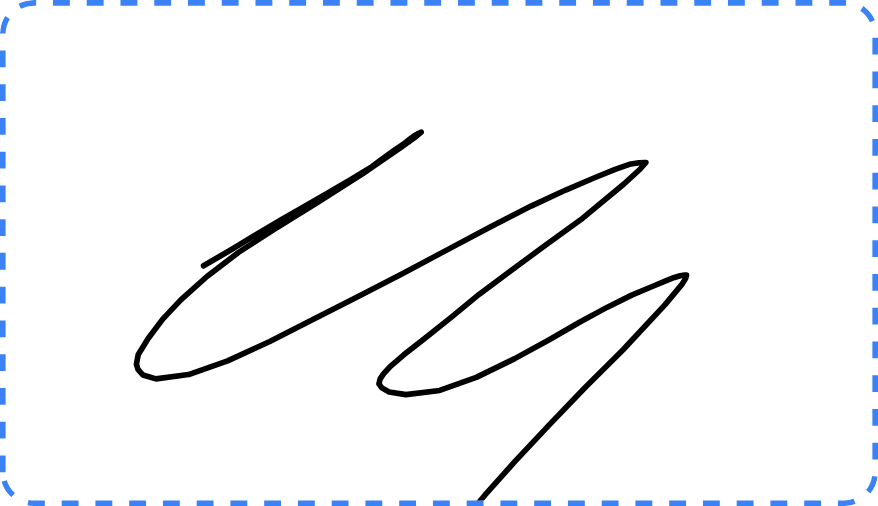
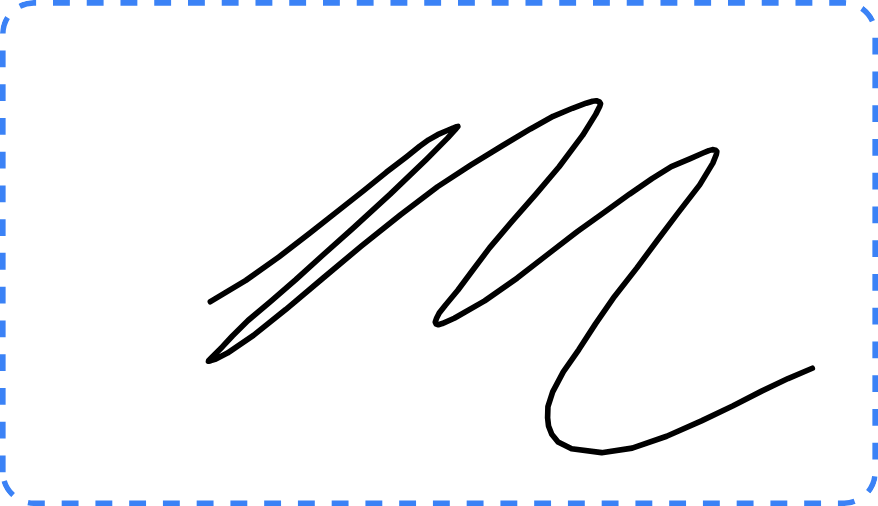
Add duplicate ID checks to work order creation and updates
Implement unique partial indexes on system and module IDs in project schemas and add duplicate ID checking logic within the `ProjectWorkOrderStorage` class to prevent the creation of work orders with conflicting identifiers.

Replit-Commit-Author: Agent
Replit-Commit-Session-Id: e9470737-603c-4a19-8335-7b03eaffff40
Replit-Commit-Checkpoint-Type: full_checkpoint
Replit-Commit-Event-Id: 947818ea-e8b2-4fb0-a9c3-bf7e7627d5a0
Replit-Commit-Screenshot-Url: https://storage.googleapis.com/screenshot-production-us-central1/9dfbb73b-9f94-4b2e-a0c6-1bd774946c5c/e9470737-603c-4a19-8335-7b03eaffff40/86VnuEs
Replit-Helium-Checkpoint-Created: true

diff --git a/server/projectDb.ts b/server/projectDb.ts
@@ -141,7 +141,30 @@ export async function createProjectSchema(projectName: string, projectId: number
       )
     `);
     
-    console.log(`Created project schema: ${schemaName}`);
+    // Add unique partial indexes for system and module IDs (only for non-null values)
+    // These ensure no duplicate meters/modules are created within a project
+    await client.query(`
+      CREATE UNIQUE INDEX IF NOT EXISTS idx_unique_old_system_id 
+      ON "${schemaName}".work_orders (old_system_id) 
+      WHERE old_system_id IS NOT NULL
+    `);
+    await client.query(`
+      CREATE UNIQUE INDEX IF NOT EXISTS idx_unique_new_system_id 
+      ON "${schemaName}".work_orders (new_system_id) 
+      WHERE new_system_id IS NOT NULL
+    `);
+    await client.query(`
+      CREATE UNIQUE INDEX IF NOT EXISTS idx_unique_old_module_id 
+      ON "${schemaName}".work_orders (old_module_id) 
+      WHERE old_module_id IS NOT NULL
+    `);
+    await client.query(`
+      CREATE UNIQUE INDEX IF NOT EXISTS idx_unique_new_module_id 
+      ON "${schemaName}".work_orders (new_module_id) 
+      WHERE new_module_id IS NOT NULL
+    `);
+    
+    console.log(`Created project schema with unique ID indexes: ${schemaName}`);
     return schemaName;
   } finally {
     client.release();
@@ -369,6 +392,25 @@ export async function migrateProjectSchema(schemaName: string): Promise<void> {
       }
     }
     
+    // Step 8: Add unique partial indexes for new_system_id and new_module_id
+    // These columns should have no duplicates (can't install same new meter twice)
+    // Note: old_* indexes skipped for existing schemas - may have legacy duplicates
+    try {
+      await client.query(`
+        CREATE UNIQUE INDEX IF NOT EXISTS idx_unique_new_system_id 
+        ON "${schemaName}".work_orders (new_system_id) 
+        WHERE new_system_id IS NOT NULL
+      `);
+      await client.query(`
+        CREATE UNIQUE INDEX IF NOT EXISTS idx_unique_new_module_id 
+        ON "${schemaName}".work_orders (new_module_id) 
+        WHERE new_module_id IS NOT NULL
+      `);
+      console.log(`Added unique indexes for new_system_id and new_module_id to ${schemaName}`);
+    } catch (indexError) {
+      console.log(`Unique index creation for ${schemaName}: ${indexError}`);
+    }
+    
     console.log(`Migration completed for ${schemaName}.work_orders to canonical Aurora schema`);
   } catch (error) {
     // Log but don't fail - table might not exist yet
@@ -524,6 +566,12 @@ export class ProjectWorkOrderStorage {
     await this.ensureMigrated();
     const client = await pool.connect();
     try {
+      // Check for duplicate system/module IDs before inserting
+      const duplicateErrors = await this.checkDuplicateIds(client, workOrder);
+      if (duplicateErrors.length > 0) {
+        throw new Error(`Duplicate ID violation: ${duplicateErrors.join("; ")}`);
+      }
+      
       // If scheduledAt is set, auto-set status to "Scheduled"
       let status = workOrder.status || "Open";
       if (workOrder.scheduledAt) {
@@ -723,6 +771,69 @@ export class ProjectWorkOrderStorage {
     }
   }
 
+  // Check for duplicate system/module IDs before creating a work order
+  // Returns array of error messages for any duplicates found
+  private async checkDuplicateIds(client: any, workOrder: any, excludeWorkOrderId?: number): Promise<string[]> {
+    const errors: string[] = [];
+    const excludeClause = excludeWorkOrderId ? ` AND id != ${excludeWorkOrderId}` : '';
+    
+    // Check old_system_id
+    if (workOrder.oldSystemId) {
+      const result = await client.query(
+        `SELECT id, customer_wo_id FROM "${this.schemaName}".work_orders 
+         WHERE old_system_id = $1${excludeClause} LIMIT 1`,
+        [workOrder.oldSystemId]
+      );
+      if (result.rows.length > 0) {
+        const existing = result.rows[0];
+        errors.push(`Old System ID '${workOrder.oldSystemId}' already exists in work order ${existing.customer_wo_id || existing.id}`);
+      }
+    }
+    
+    // Check new_system_id
+    if (workOrder.newSystemId) {
+      const result = await client.query(
+        `SELECT id, customer_wo_id FROM "${this.schemaName}".work_orders 
+         WHERE new_system_id = $1${excludeClause} LIMIT 1`,
+        [workOrder.newSystemId]
+      );
+      if (result.rows.length > 0) {
+        const existing = result.rows[0];
+        errors.push(`New System ID '${workOrder.newSystemId}' already exists in work order ${existing.customer_wo_id || existing.id}`);
+      }
+    }
+    
+    // Check old_module_id
+    const oldModuleId = workOrder.oldModuleId || (workOrder as any).old_module_id;
+    if (oldModuleId) {
+      const result = await client.query(
+        `SELECT id, customer_wo_id FROM "${this.schemaName}".work_orders 
+         WHERE old_module_id = $1${excludeClause} LIMIT 1`,
+        [oldModuleId]
+      );
+      if (result.rows.length > 0) {
+        const existing = result.rows[0];
+        errors.push(`Old Module ID '${oldModuleId}' already exists in work order ${existing.customer_wo_id || existing.id}`);
+      }
+    }
+    
+    // Check new_module_id
+    const newModuleId = workOrder.newModuleId || (workOrder as any).new_module_id;
+    if (newModuleId) {
+      const result = await client.query(
+        `SELECT id, customer_wo_id FROM "${this.schemaName}".work_orders 
+         WHERE new_module_id = $1${excludeClause} LIMIT 1`,
+        [newModuleId]
+      );
+      if (result.rows.length > 0) {
+        const existing = result.rows[0];
+        errors.push(`New Module ID '${newModuleId}' already exists in work order ${existing.customer_wo_id || existing.id}`);
+      }
+    }
+    
+    return errors;
+  }
+
   // Get the project's timezone from the schemaName (cached for performance)
   // SchemaName format: project_{sanitized_name}_{id}
   private async getProjectTimezone(): Promise<string> {
@@ -817,6 +928,12 @@ export class ProjectWorkOrderStorage {
     await this.ensureMigrated();
     const client = await pool.connect();
     try {
+      // Check for duplicate system/module IDs before updating (exclude current work order)
+      const duplicateErrors = await this.checkDuplicateIds(client, updates, id);
+      if (duplicateErrors.length > 0) {
+        throw new Error(`Duplicate ID violation: ${duplicateErrors.join("; ")}`);
+      }
+      
       const setClauses: string[] = [];
       const values: any[] = [];
       let paramCount = 1;
